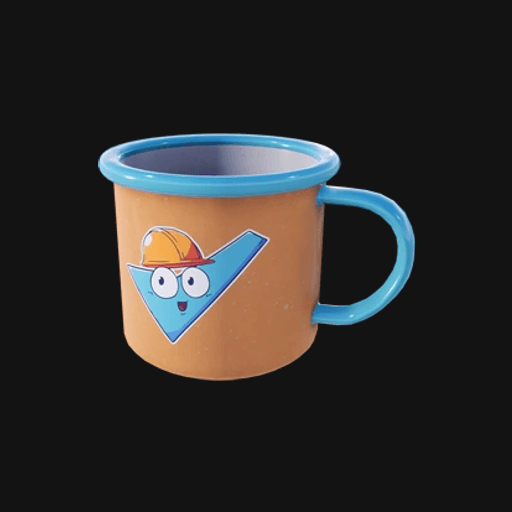
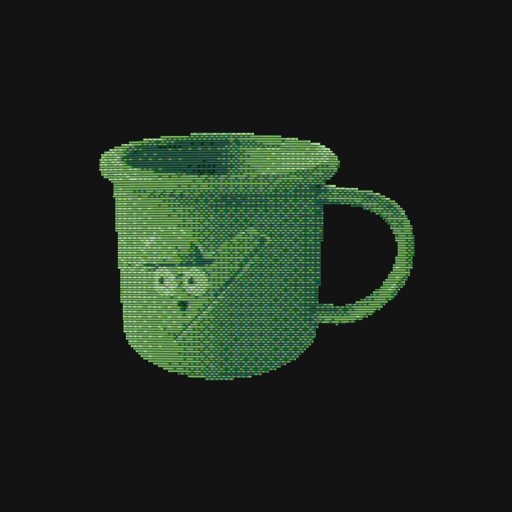
b0r3d.1.1: the new b0r3d cup
b0r3d-brand/cup.png is the Game Boy cup now used across b0r3d.org
(512 px source); generate-brand-assets rebuilt the cup preset, header
cup, favicon, app icons, splash screens and share image from it.

Changed region(s): [[0.1875, 0.25, 0.8125, 0.75]]

diff --git a/README.md b/README.md
@@ -273,6 +273,7 @@ footer's Source link goes to this repository.
 | `0.33.0+b0r3d.9` | 2026-10-09 | Data templates dropdown menu next to presets                   |
 | `0.33.0+b0r3d.98` | 2026-10-09 | UPC-E, ISBN, bar height/quiet zones, barcode CSV batch, PDF export, camera torch/cycling, ECI 26, schema v1 |
 | `0.33.0+b0r3d.1.0` | 2026-10-09 | 1.0: review fixes (UTF-8 marker, PDF, ITF-14, ISBN, barcode batches, camera switch) |
+| `0.33.0+b0r3d.1.1` | 2026-10-15 | The new b0r3d cup: logo, cup preset, favicon, app icons, splash screens and share image |
 
 ## Development
 
